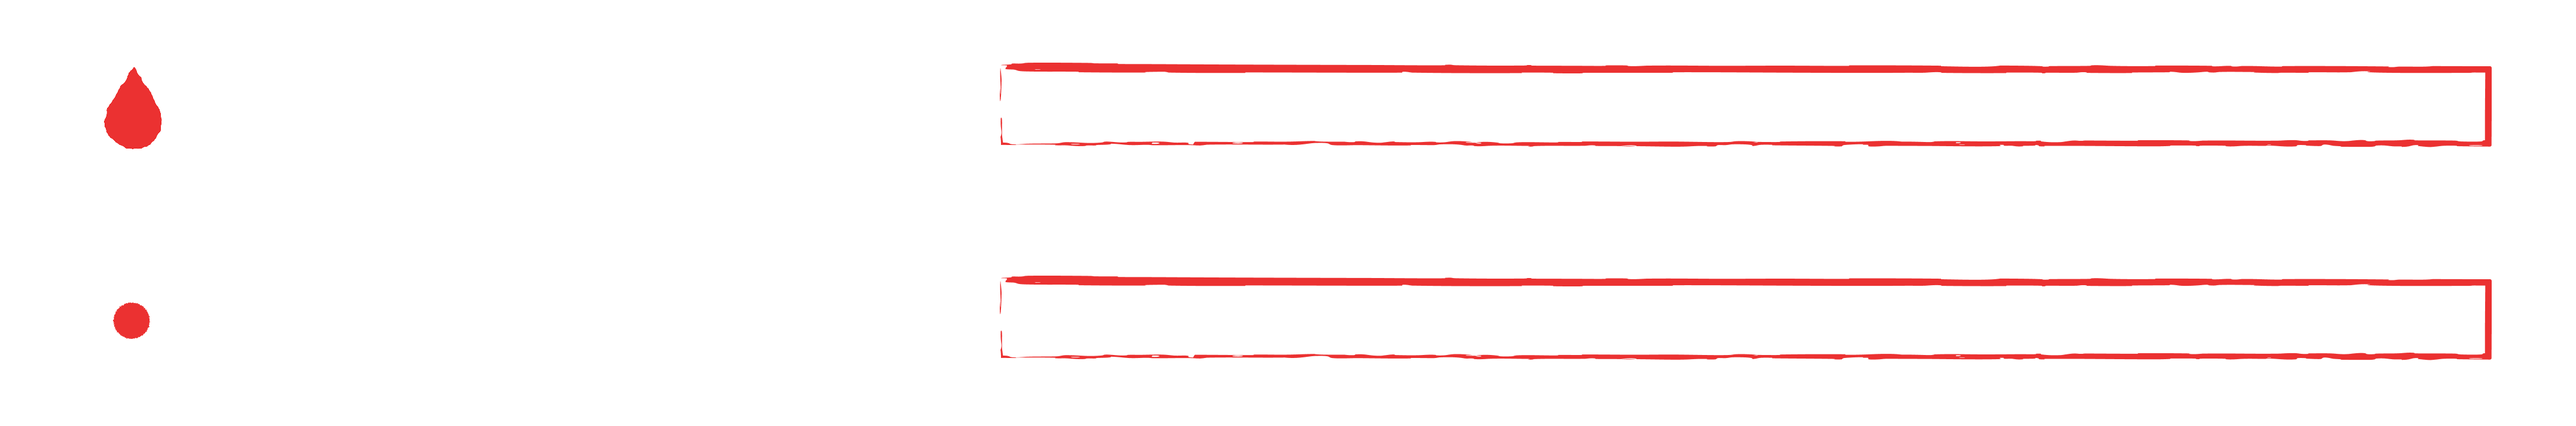
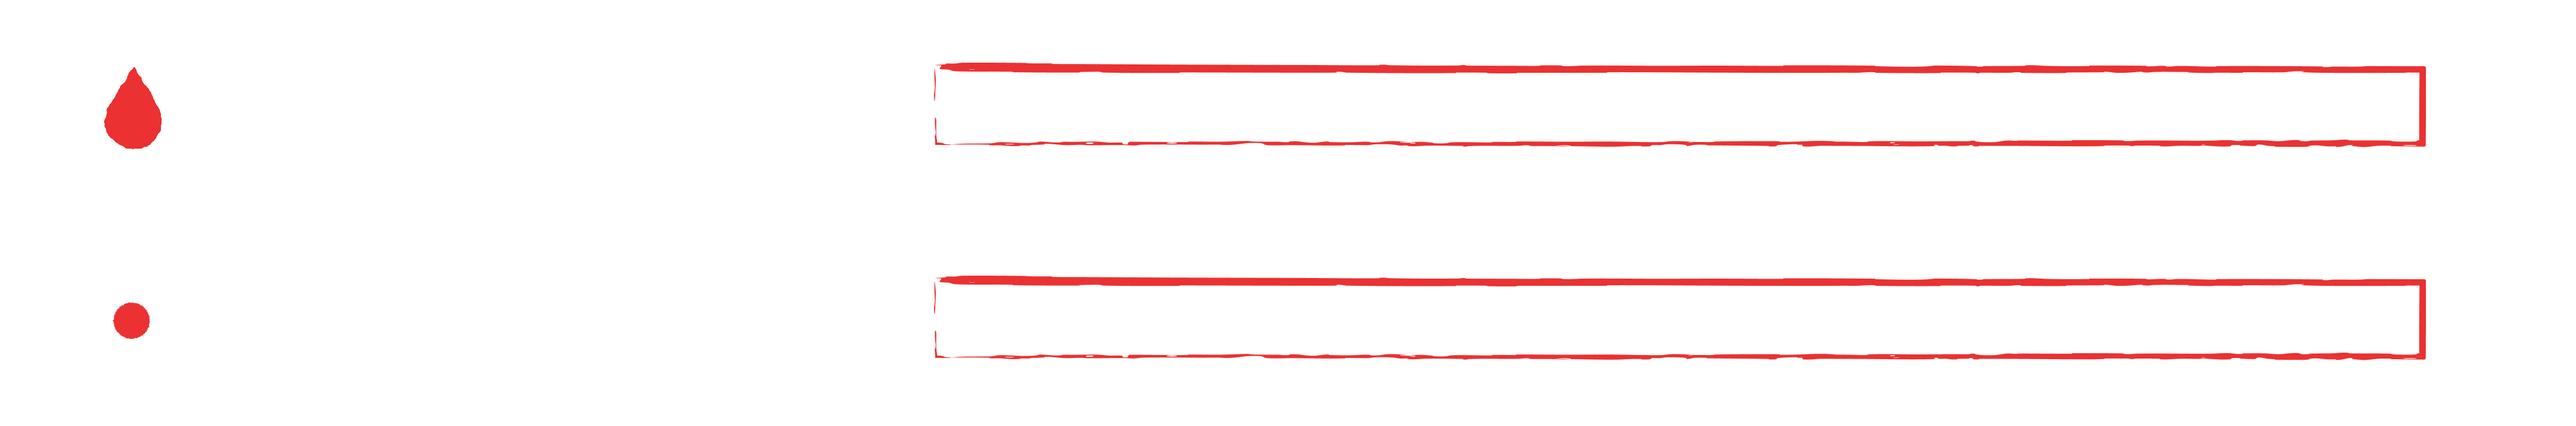
added daisychain images

diff --git a/public/sketch.js b/public/sketch.js
@@ -39,9 +39,14 @@ let stations = {
   bleeding: { num: 0, progress: 0, visible: true, dismissing: false, offsetX: 0, fade: 1, dismissStart: 0, name: "bleeding", inputDelay: false, timerStart: 0, totalTime: 0 },
   heart: { num: 0, progress: 0, visible: true, dismissing: false, offsetX: 0, fade: 1, dismissStart: 0, name: "heart", inputDelay: false, timerStart: 0, totalTime: 0 },
   tummy: { num: 0, progress: 0, visible: true, dismissing: false, offsetX: 0, fade: 1, dismissStart: 0, name: "tummy", inputDelay: false, timerStart: 0, totalTime: 0 },
-  bleedEye: { num: 0, progress: 0, visible: true, dismissing: false, offsetX: 0, fade: 1, dismissStart: 0, name: "daisyBrain", inputDelay: false, timerStart: 0, totalTime: 0 },
-  brainTummy: { num: 0, progress: 0, visible: true, dismissing: false, offsetX: 0, fade: 1, dismissStart: 0, name: "daisyBleed", inputDelay: false, timerStart: 0, totalTime: 0 }
 };
+
+// daisy chain stations
+let daisyTasks = {
+  bleedEye: { parts: ["bleeding", "eyeball"], progress: 0, partProgress: { bleeding: 0, eyeball: 0 }, visible: true, dismissing: false, offsetX: 0, fade: 1, dismissStart: 0, timerStart: 0, totalTime: 0, img: null },
+  brainTummy: { parts: ["brain", "tummy"], progress: 0, partProgress: { brain: 0, tummy: 0 }, visible: true, dismissing: false, offsetX: 0, fade: 1, dismissStart: 0, timerStart: 0, totalTime: 0, img: null },
+};
+
 
 function preload() {
   bleedingBar = loadImage("media/Bleeding.png");
@@ -51,6 +56,10 @@ function preload() {
 
   daisyBleedBar = loadImage("media/DaisyBleed.png");
   daisyBrainBar = loadImage("media/DaisyBrain.png");
+
+  //set image
+  daisyTasks.bleedEye.img = daisyBleedBar;
+  daisyTasks.brainTummy.img = daisyBrainBar;
 
   headerImage = loadImage("media/VitalsBoardLogo.png");
   timerImage = loadImage("media/ClockLogo.png");
@@ -64,10 +73,10 @@ let otherNewTask = "";
 //useDaisy is to use it or not
 //daisyTask is the name of the task you have to go through, endTask is the end task , 
 //daisyTube is the color of tube going from heart to daisy and chain from daisy to end
-let daisy = {useDaisy: false, daisyTask: "", endTask: "", daisyTube: "", chainTube: ""}
+let daisy = { useDaisy: false, daisyTask: "", endTask: "", daisyTube: "", chainTube: "" }
 
-let portData = {brain: {red: "0", blue: "0"}, eyeball: {red: "0", blue: "0"}, bleeding: {red: "0", blue: "0"}, heart: {red: "0", blue: "0"}, tummy: {red: "0", blue: "0"}}
-let tubeLocation = {red: [], blue: []}
+let portData = { brain: { red: "0", blue: "0" }, eyeball: { red: "0", blue: "0" }, bleeding: { red: "0", blue: "0" }, heart: { red: "0", blue: "0" }, tummy: { red: "0", blue: "0" } }
+let tubeLocation = { red: [], blue: [] }
 let gameState = 0;
 let gameloop = 0;
 let updateGameState = false;
@@ -75,15 +84,15 @@ let useGameLoop = false;
 let heartConnected = false;
 let heartLast = 0;
 //Function to fill in tube location based on portData sudo-returning the locations
-function tubeFinder(){
+function tubeFinder() {
   //reset the json before going
   tubeLocation.red = [];
   tubeLocation.blue = [];
-  for(const station in portData){
-    if (portData[station].red !== "0"){
+  for (const station in portData) {
+    if (portData[station].red !== "0") {
       tubeLocation.red.push(station);
     }
-    if (portData[station].blue !== "0"){
+    if (portData[station].blue !== "0") {
       tubeLocation.blue.push(station);
     }
   }
@@ -160,22 +169,40 @@ function setup() {
   //Some event listeners for manual control of the game
   addEventListener("keydown", (e) => {
     //These bring in new tasks
-    if (e.key == "w") {newTask = "brain";}
-    if (e.key == "e") {newTask = "eyeball";}
-    if (e.key == "q") {newTask = "bleeding";}
-    if (e.key == "r") {newTask = "tummy";}
+    if (e.key == "w") { newTask = "brain"; }
+    if (e.key == "e") { newTask = "eyeball"; }
+    if (e.key == "q") { newTask = "bleeding"; }
+    if (e.key == "r") { newTask = "tummy"; }
+    if (e.key == "t") {
+      const ct = daisyTasks.bleedEye;
+      ct.visible = true;
+      ct.progress = 0;
+      ct.fade = 1;
+      ct.offsetX = 0;
+      ct.dismissing = false;
+      ct.timerStart = millis();
+
+      if (!visibleTasks.includes("bleedEye")) {
+        visibleTasks.push("bleedEye");
+      }
+    }
+
     //these atomize task from the list
-    if (e.key == "s") {banish = "brain";}
-    if (e.key == "d") {banish = "eyeball";}
-    if (e.key == "a") {banish = "bleeding";}
-    if (e.key == "f") {banish = "tummy";}
+    if (e.key == "s") { banish = "brain"; }
+    if (e.key == "d") { banish = "eyeball"; }
+    if (e.key == "a") { banish = "bleeding"; }
+    if (e.key == "f") { banish = "tummy"; }
+    if (e.key == "g") {
+      daisyTasks.bleedEye.dismissing = true;
+      daisyTasks.bleedEye.dismissStart = millis();
+    }
     //reset all pins on a given station
     //these get sent to index.js
-    if (e.key == "x") {socket.emit("brain", "reset");}
-    if (e.key == "c") {socket.emit("eyeball", "reset");}
-    if (e.key == "z") {socket.emit("bleeding", "reset");}
-    if (e.key == "v") {socket.emit("tummy", "reset");}
-    if (e.key == "b") {socket.emit("heart", "reset");}
+    if (e.key == "x") { socket.emit("brain", "reset"); }
+    if (e.key == "c") { socket.emit("eyeball", "reset"); }
+    if (e.key == "z") { socket.emit("bleeding", "reset"); }
+    if (e.key == "v") { socket.emit("tummy", "reset"); }
+    if (e.key == "b") { socket.emit("heart", "reset"); }
 
     if (e.key == "1") { //For gameloop 1
       gameloop = 1;
@@ -195,12 +222,12 @@ function setup() {
       updateGameState = false;
       useGameLoop = false;
     }
-    if(e.key == "4"){ //manual daisy task
-          daisy.useDaisy = true;
-          // console.log(daisy.useDaisy);
-        daisy.daisyTask = "bleeding";
-        // console.log(daisy.daisyTask);
-        daisy.endTask = "brain";
+    if (e.key == "4") { //manual daisy task
+      daisy.useDaisy = true;
+      // console.log(daisy.useDaisy);
+      daisy.daisyTask = "bleeding";
+      // console.log(daisy.daisyTask);
+      daisy.endTask = "brain";
     }
   })
 }
@@ -255,6 +282,7 @@ function draw() {
   const barWidth = width * 0.9;
   const barHeight = barWidth * ratio;
   const centeredX = (width - barWidth) / 2;
+  const daisyMult = 2;
 
   //layouts of stations
   let stationLayouts = {
@@ -263,8 +291,8 @@ function draw() {
     bleeding: { img: bleedingBar, x: centeredX, y: 0, w: barWidth, h: barHeight },
     heart: { img: null, x: centeredX, y: 0, w: barWidth, h: barHeight },
     tummy: { img: tummyBar, x: centeredX, y: 0, w: barWidth, h: barHeight },
-    bleedEye: { img: daisyBleedEyeBar, x: centeredX, y: 0, w: barWidth, h: barHeight },
-    brainTummy: { img: daisyBrainTummyBar, x: centeredX, y: 0, w: barWidth, h: barHeight }
+    bleedEye: { img: daisyBleedBar, x: centeredX, y: 0, w: barWidth, h: barHeight },
+    brainTummy: { img: daisyBrainBar, x: centeredX, y: 0, w: barWidth, h: barHeight }
   };
 
   //test
@@ -273,6 +301,7 @@ function draw() {
   // stations.bleeding.num = 12;
   // stations.tummy.num = 8;
   // stations.heart.num = 1;
+
   //Trigger the tube finder to be updated
   tubeFinder();
   let blueDaisy = (tubeLocation.blue.includes(daisy.daisyTask)); //the task being chained (daisy-ed?) through is connected with blue
@@ -288,28 +317,28 @@ function draw() {
 
     // smooth progress update
     //console.log(st.inputDelay);
-    if(!daisy.useDaisy && st.inputDelay && 
-        ((blueHeart && tubeLocation.blue.includes(key)) || 
-        (redHeart && tubeLocation.red.includes(key)))){
+    if (!daisy.useDaisy && st.inputDelay &&
+      ((blueHeart && tubeLocation.blue.includes(key)) ||
+        (redHeart && tubeLocation.red.includes(key)))) {
       st.progress = lerp(st.progress, ledProgress((st.num), thresholds), 0.1);
     }
-      
 
-    if(daisy.useDaisy){
+
+    if (daisy.useDaisy) {
       //minimum the hear to the daisy is needed 
-      if(st.inputDelay &&
+      if (st.inputDelay &&
         ((blueDaisy && blueHeart) || //Blue tube Heart to Daisy
           (redDaisy && redHeart)) // Red tube heart to Daisy 
-        ){
-          //for the heart -> daisy
-          if(st.name == daisy.daisyTask) {st.progress = lerp(st.progress, ledProgress((st.num), thresholds), 0.1);} 
-          //for the daisy -> end
-          else if (st.name == daisy.endTask){
-            if(((blueEnd && blueDaisy) || //blue at end and daisy 
-                (redEnd && redDaisy)) //red at end and daisy
-            ){st.progress = lerp(st.progress, ledProgress((st.num), thresholds), 0.1);}
-          };
-        }
+      ) {
+        //for the heart -> daisy
+        if (st.name == daisy.daisyTask) { st.progress = lerp(st.progress, ledProgress((st.num), thresholds), 0.1); }
+        //for the daisy -> end
+        else if (st.name == daisy.endTask) {
+          if (((blueEnd && blueDaisy) || //blue at end and daisy 
+            (redEnd && redDaisy)) //red at end and daisy
+          ) { st.progress = lerp(st.progress, ledProgress((st.num), thresholds), 0.1); }
+        };
+      }
     }
     // detect completion
     if (!st.dismissing && st.visible && st.progress >= 0.995) {
@@ -373,19 +402,93 @@ function draw() {
       if (st.name === otherNewTask) otherNewTask = "";
     }
 
-//     if (st.name == "heart") {
-//       if (st.num == "1" || st.num == "2" || st.num == "3" || heartLast == "1" || heartLast == "2" || heartLast == "3") { heartConnected = true; }
-//       else { heartConnected = false; }
-//       heartLast = st.num;
-//     }
+    //     if (st.name == "heart") {
+    //       if (st.num == "1" || st.num == "2" || st.num == "3" || heartLast == "1" || heartLast == "2" || heartLast == "3") { heartConnected = true; }
+    //       else { heartConnected = false; }
+    //       heartLast = st.num;
+    //     }
+
+    //update daisy chain tasks
+    for (const key in daisyTasks) {
+      const ds = daisyTasks[key];
+
+      if (!ds.visible) continue;
+
+      if (ds.parts.includes(st.name)) {
+        ds.partProgress[st.name] = st.progress;
+
+        //combine parts
+        let minProg = 1;
+        for (const part of ds.parts) {
+          minProg = Math.min(minProg, ds.partProgress[part]);
+        }
+        ds.progress = minProg;
+
+        if (ds.progress >= 0.995) {
+          ds.dismissing = true;
+          ds.dismissStart = millis();
+        }
+      }
+      // dismiss like normal stations
+      if (ds.dismissing || key === banish) {
+        const t = constrain((millis() - ds.dismissStart) / DISMISS_DURATION, 0, 1);
+        const e = 1 - pow(1 - t, 3);
+        ds.offsetX = e * (width + 48);
+        ds.fade = 1 - e;
+
+        if (t >= 1) {
+          ds.dismissing = false;
+          ds.visible = false;
+          ds.fade = 0;
+
+          // stop timer
+          ds.totalTime = (millis() - ds.timerStart) / 1000;
+          ds.timerStart = 0;
+
+          console.log(`${key} time:`, ds.totalTime);
+
+          const points = scoring(ds.totalTime);
+          console.log(`${key} scored:`, points);
+
+          // remove from visibleTasks
+          const index = visibleTasks.indexOf(key);
+          if (index > -1) visibleTasks.splice(index, 1);
+        }
+
+        if (key === banish) banish = "";
+      }
+    }
 
   }
 
   // --- STACK STATIONS ---
   for (let i = 0; i < visibleTasks.length; i++) {
     const key = visibleTasks[i];
-    const st = stations[key];
     const posY = topOffset + i * (barHeight + space);
+
+
+    //--- DAISY STATIONS ---
+    if (key === "bleedEye" || key === "brainTummy") {
+      const ds = daisyTasks.bleedEye;
+
+      push();
+      translate(ds.offsetX, posY);
+      noStroke();
+      fill(228, 44, 46);
+      rect(barX - 10, barY - 10, barW * ds.progress, barH * daisyMult - 10);
+
+      tint(255, 255 * ds.fade);
+      image(ds.img, centeredX, 0, barWidth, barHeight * daisyMult);
+      noTint();
+      pop();
+
+      continue;
+    }
+
+
+    //--- NORMAL STATIONS ---
+    const st = stations[key];
+    //if (!st) continue;
 
     if (st.visible || st.dismissing) {
       const layout = stationLayouts[st.name];
@@ -442,7 +545,7 @@ function ledProgress(charge, th = thresholds) {
   const [t0, t1, t2] = th;
 
   // if (charge <= 0 || !heartConnected) return 0;
-  if(charge <= 0) return 0;
+  if (charge <= 0) return 0;
 
   if (charge <= t0) {
     // first third
